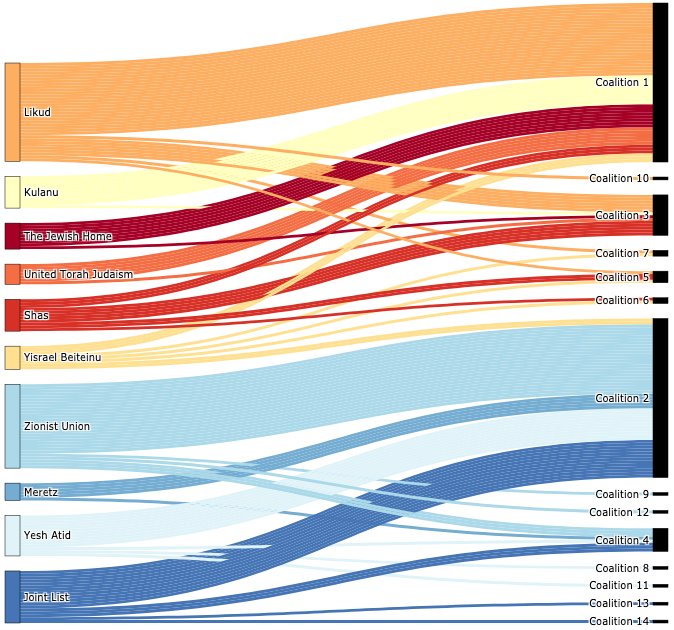
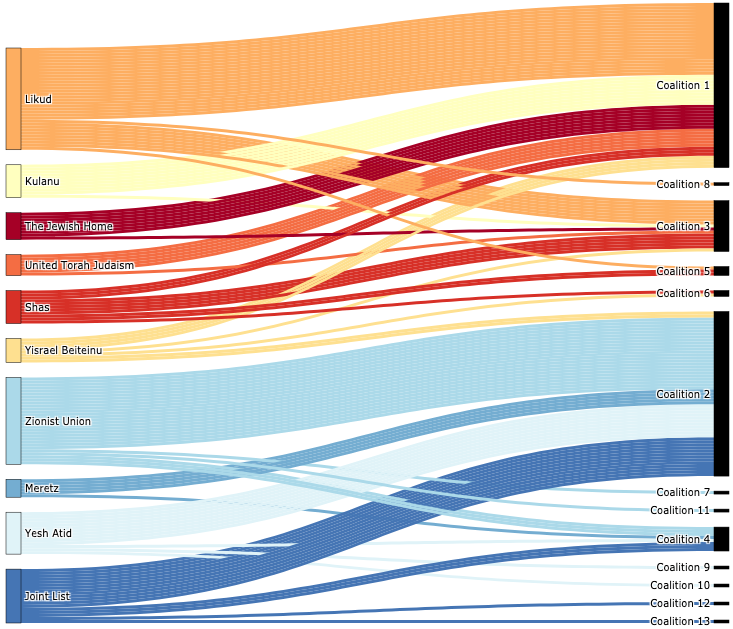
Select a representative from multiple runs based on min sum of NID

diff --git a/docs/index.js b/docs/index.js
@@ -1,4 +1,4 @@
-function make_sankey_plot(exp_partitions) {
+function make_sankey_plot(exp_partitions, el_id) {
   Plotly.d3.json("sankey.json", fig => {
 
     const party_list = ["The Jewish Home", "Shas", "United Torah Judaism", "Likud", "Yisrael Beiteinu", "Kulanu", "Yesh Atid", "Zionist Union", "Meretz", "Joint List"]
@@ -39,7 +39,7 @@ function make_sankey_plot(exp_partitions) {
         // shift partition index to skip the first two columns of nodes
         var partition = p.map(coal => coal.map(idx => idx + members.length * 2))
         var coalition_labels = p.map((_, id) =>  'Coalition ' + (id + 1))
-        var partition_name = key + ' partition ' + (id + 1)
+        var partition_name = partitions.length > 1 ?  key + ' partition ' + (id + 1) : key
         return [partition_name, group_values.concat(partition),
           members.concat(members).concat(members).concat(party_list).concat(coalition_labels)]
       }))
@@ -96,7 +96,7 @@ function make_sankey_plot(exp_partitions) {
       }]
     }
 
-    Plotly.plot('sankey', data, layout)
+    Plotly.plot(el_id, data, layout)
   })
 }
 
@@ -139,7 +139,7 @@ function make_k_means_line_plot(exp_partitions) {
   const k_means_keys = Object.keys(exp_partitions)
     .filter(key => key.indexOf('k_means') >= 0)
 
-  var plot_data = ['vi', 'nvi', 'nid'].map(stats_name => {
+  var plot_data = ['nvi', 'nid'].map(stats_name => {
     var x = []
     var y = []
     k_means_keys.forEach(key => {
@@ -171,6 +171,11 @@ function make_k_means_line_plot(exp_partitions) {
 
 Plotly.d3.json("partitions.json", exp_partitions => {
   make_histogram(exp_partitions)
-  make_sankey_plot(exp_partitions)
+  make_sankey_plot(exp_partitions, 'sankey')
   make_k_means_line_plot(exp_partitions)
 })
+
+Plotly.d3.json("partition_reps.json", exp_partitions => {
+  make_sankey_plot(exp_partitions, 'sankey_reps')
+})
+

diff --git a/docs/index.html b/docs/index.html
@@ -14,8 +14,9 @@
   </style>
 </head>
 <body>
-  <div id="sankey"></div>
+  <div id="sankey_reps"></div>
   <div id="histogram"></div>
   <div id="k_means_line_plot"></div>
+  <div id="sankey"></div>
   <script src="index.js"></script>
 </body>

diff --git a/src/partition_ids_to_viz_data.py b/src/partition_ids_to_viz_data.py
@@ -62,8 +62,33 @@ def gather_experiment_partitions():
     return filename_to_partitions
 
 
-if __name__ == '__main__':
+# pick the partition that minimizes the sum of nids to the rest of the group
+def select_representatives(grouped_partitions):
+    reps = {}
+    for key, partitions in grouped_partitions.items():
+        if len(partitions) < 2:
+            continue
+        min_nid_sum = len(partitions)
+        min_nid_part = partitions[0]['data']
+        for i, me in enumerate(partitions):
+            nid_sum = 0
+            for j, other in enumerate(partitions):
+                if i == j:
+                    continue
+                nid_sum += normalized_information_distance(me['data'], other['data'])
+            if nid_sum < min_nid_sum:
+                min_nid_sum = nid_sum
+                min_nid_part = me
+        reps[key] = [min_nid_part]
+    print(reps)
+    return reps
 
+
+if __name__ == '__main__':
+    grouped_partitions = gather_experiment_partitions()
     with open('../docs/partitions.json', 'w') as f:
-        grouped_partitions = gather_experiment_partitions()
         json.dump(grouped_partitions, f)
+
+    representatives = select_representatives(grouped_partitions)
+    with open('../docs/partition_reps.json', 'w') as f:
+        json.dump(representatives, f)
